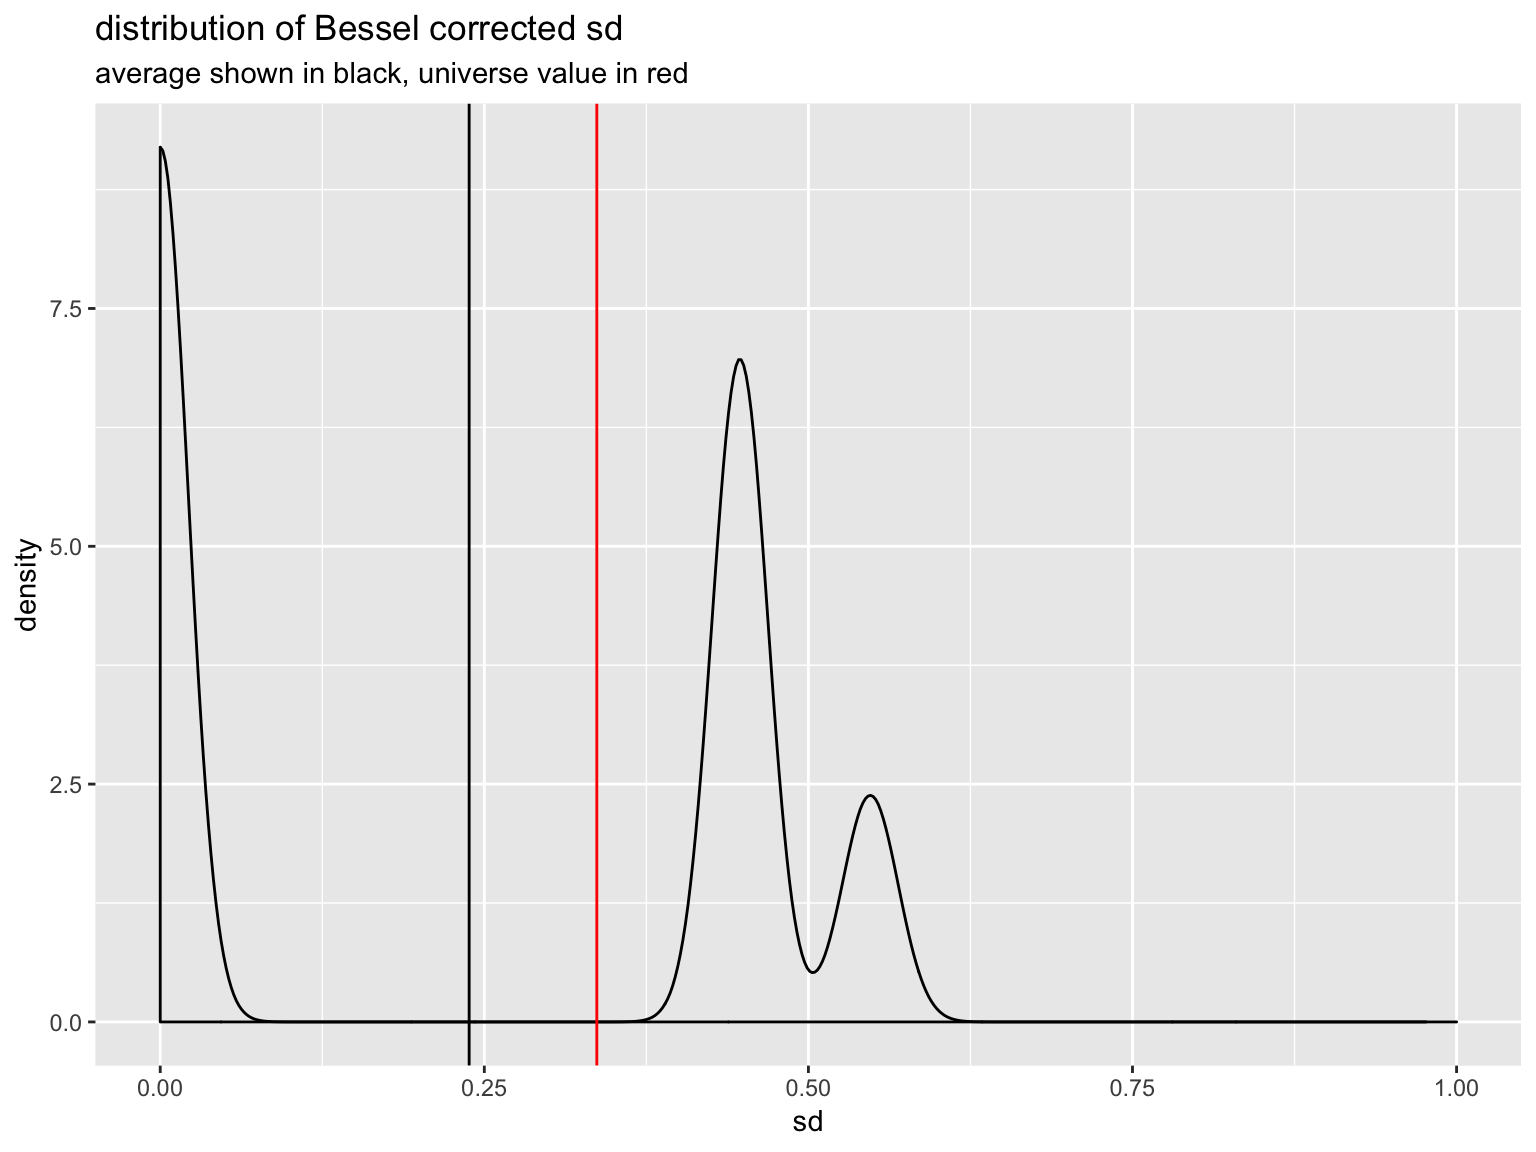
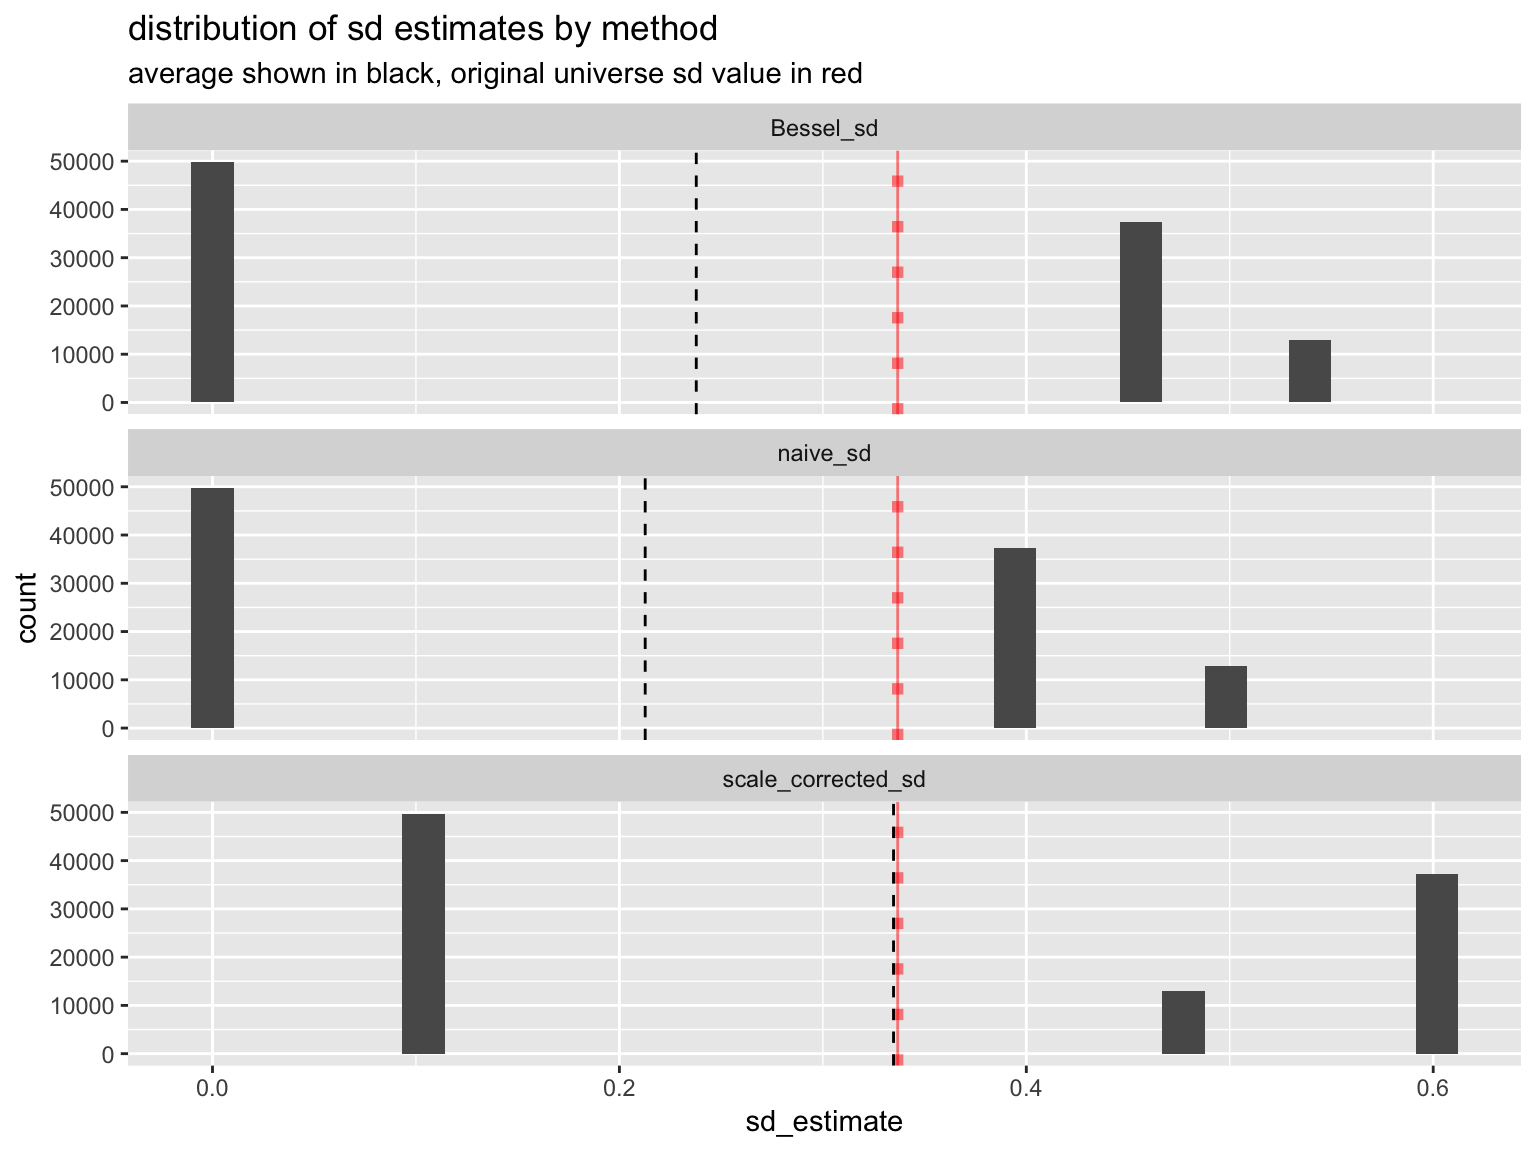
re-run with hitograms and variance of estimator data

diff --git a/extras/BiasEsts.md b/extras/BiasEsts.md
@@ -349,6 +349,8 @@ print("universe")
 ``` r
 tabu <- solve_for_scaling_table(length(universe), naive_sd_fun, intercept = intercept)
 su <- summary1(universe, tabu)
+n <- length(universe)
+
 print("actual sd (non-sample)")
 ```
 
@@ -362,8 +364,7 @@ print(su)
     ## 1 0.8695652 0.1185771 0.3443502 0.1134216 0.3367812          0.3384957
 
 ``` r
-n <- length(universe)
-Bessel_corrected_var <- (n/(n-1))*su$naive_var
+Bessel_corrected_var <- (n/(n-1))*su$naive_var 
 print(Bessel_corrected_var)
 ```
 
@@ -379,159 +380,13 @@ print(Bessel_corrected_sd)
 ``` r
 res <- parallel::parLapply(cl, 1:100000, f)
 res <- do.call(rbind, res)
-
-print("aggregates")
-```
-
-    ## [1] "aggregates"
-
-``` r
 sums <- as.data.frame(lapply(res, mean))
-print(sums)
-```
 
-    ##       mean      var        sd naive_var  naive_sd scale_corrected_sd
-    ## 1 0.869324 0.113642 0.2383006 0.0909136 0.2131425          0.3356049
 
-``` r
-print("sds of aggregates")
-```
 
-    ## [1] "sds of aggregates"
+res$Bessel_sd <- res$sd
+res$Bessel_var <- res$var
 
-``` r
-sdss <- as.data.frame(lapply(res, sd))
-print(sdss)
-```
-
-    ##        mean       var        sd  naive_var  naive_sd scale_corrected_sd
-    ## 1 0.1506201 0.1169069 0.2384437 0.09352555 0.2132706          0.2402441
-
-``` r
-print("stddev est from aggregate mean")
-```
-
-    ## [1] "stddev est from aggregate mean"
-
-``` r
-print(sqrt(su$mean*(1-su$mean)))
-```
-
-    ## [1] 0.3367812
-
-``` r
-p1 <- ggplot(data = res, aes(x = naive_sd)) +
-  geom_density() + 
-  geom_vline(xintercept = sums$naive_sd) +
-  geom_vline(xintercept = su$naive_sd, color = "red") + 
-  xlim(0, 1) +
-  ggtitle(paste0("distribution of naive sd"),
-          subtitle = "average shown in black, universe value in red")
-print(p1)
-```
-
-<img src="BiasEsts_files/figure-markdown_github/run-22.png" width="768" />
-
-``` r
-p2 <- ggplot(data = res, aes(x = scale_corrected_sd)) +
-  geom_density() + 
-  geom_vline(xintercept = sums$scale_corrected_sd) +
-  geom_vline(xintercept = su$naive_sd, color = "red") + 
-  xlim(0, 1) +
-  ggtitle(paste0("distribution of ", ifelse(intercept, "affine", "scale")," adjusted sd"),
-          subtitle = "average shown in black, universe value in red")
-print(p2)
-```
-
-<img src="BiasEsts_files/figure-markdown_github/run-23.png" width="768" />
-
-``` r
-p2b <- ggplot(data = res, aes(x = sd)) +
-  geom_density() + 
-  geom_vline(xintercept = sums$sd) +
-  geom_vline(xintercept = su$naive_sd, color = "red") + 
-  xlim(0, 1) +
-  ggtitle(paste0("distribution of Bessel corrected sd"),
-          subtitle = "average shown in black, universe value in red")
-print(p2b)
-```
-
-<img src="BiasEsts_files/figure-markdown_github/run-24.png" width="768" />
-
-``` r
-res$Bessel_sd = res$sd
-# cT <- build_unpivot_control(nameForNewKeyColumn = "estimation_method",
-#                             nameForNewValueColumn = "sd_estimate",
-#                             columnsToTakeFrom = c("scale_corrected_sd", "naive_sd"))
-# rp <- rowrecs_to_blocks(res,
-#                         controlTable = cT)
-rp <- unpivot_to_blocks(res,
-                        nameForNewKeyColumn = "estimation_method",
-                        nameForNewValueColumn = "sd_estimate",
-                        columnsToTakeFrom = c("scale_corrected_sd", "naive_sd", "Bessel_sd"))
-
-ef <- project(rp, 
-              sd_estimate = mean(sd_estimate), 
-              groupby = "estimation_method")
-
-p3 <- ggplot(data = rp, aes(x = sd_estimate)) +
-  geom_density(adjust = 0.5) + 
-  geom_vline(xintercept = su$naive_sd, color = "red", alpha = 0.5, size=2) + 
-  geom_vline(data = ef, aes(xintercept = sd_estimate)) +
-  xlim(0, 1) +  
-  facet_wrap(~estimation_method, ncol=1) +
-  ggtitle("distribution of sd estimates by method",
-          subtitle = "average shown in black, original universe sd value in red")
-print(p3)
-```
-
-<img src="BiasEsts_files/figure-markdown_github/run-25.png" width="768" />
-
-``` r
-p3 <- ggplot(data = rp, aes(x = sd_estimate)) +
-  geom_density(adjust = 0.5) + 
-  geom_vline(xintercept = su$naive_sd, color = "red", alpha = 0.5, size=2) + 
-  geom_vline(data = ef, aes(xintercept = sd_estimate)) +
-  facet_wrap(~estimation_method, ncol=1) +
-  ggtitle("distribution of sd estimates by method",
-          subtitle = "average shown in black, original universe sd value in red")
-print(p3)
-```
-
-<img src="BiasEsts_files/figure-markdown_github/run-26.png" width="768" />
-
-``` r
-rpb <- rp[rp$estimation_method %in% qc(Bessel_sd, naive_sd), , drop = FALSE]
-efb <- ef[ef$estimation_method %in% qc(Bessel_sd, naive_sd), , drop = FALSE]
-p3b <- ggplot(data = rpb, aes(x = sd_estimate)) +
-  geom_density(adjust = 0.5) + 
-  geom_vline(xintercept = su$naive_sd, color = "red", alpha = 0.5, size=2) + 
-  geom_vline(data = efb, aes(xintercept = sd_estimate)) +
-  facet_wrap(~estimation_method, ncol=1) +
-  ggtitle("distribution of sd estimates by method",
-          subtitle = "average shown in black, original universe sd value in red")
-print(p3b)
-```
-
-<img src="BiasEsts_files/figure-markdown_github/run-27.png" width="768" />
-
-``` r
-p4 <- ggplot(data = rp, aes(x = sd_estimate)) +
-  geom_histogram(bins = 30) +
-  geom_vline(xintercept = su$naive_sd, color = "red", alpha = 0.5, size=3) + 
-  geom_vline(data = ef, aes(xintercept = sd_estimate)) +
-  xlim(-0.05, 0.7) +  # work around histogram bug
-  facet_wrap(~estimation_method, ncol=1) +
-  ggtitle("distribution of sd estimates by method",
-          subtitle = "average shown in black, original universe sd value in red")
-print(p4)
-```
-
-    ## Warning: Removed 3 rows containing missing values (geom_bar).
-
-<img src="BiasEsts_files/figure-markdown_github/run-28.png" width="768" />
-
-``` r
 rpv <- res %.>% 
   extend(., Bessel_var := Bessel_sd^2) %.>% 
   unpivot_to_blocks(.,
@@ -541,17 +396,93 @@ rpv <- res %.>%
 efv <- project(rpv, 
                var_estimate = mean(var_estimate), 
                groupby = "estimation_method")  
+
+rpv %.>%
+  project(., variance_of_estimate = var(var_estimate),
+          groupby = "estimation_method")
+```
+
+    ##    estimation_method variance_of_estimate
+    ## 1:         naive_var          0.008772391
+    ## 2:        Bessel_var          0.013706861
+
+``` r
 p3v <- ggplot(data = rpv, aes(x = var_estimate)) +
-  geom_density(adjust = 0.5) + 
-  geom_vline(xintercept = su$naive_var, color = "red", alpha = 0.5, size=3) + 
-  geom_vline(data = efv, aes(xintercept = var_estimate)) +
+  geom_histogram(bins = 30)  + 
+  geom_vline(xintercept = su$naive_var, color = "red", alpha = 0.5, size=3, linetype =3) + 
+  geom_vline(xintercept = su$naive_var, color = "red", alpha = 0.5) + 
+  geom_vline(data = efv, aes(xintercept = var_estimate), linetype=2) +
   facet_wrap(~estimation_method, ncol=1) +
   ggtitle("distribution of variance estimates by method",
           subtitle = "average shown in black, original universe variance value in red")
 print(p3v)
 ```
 
-<img src="BiasEsts_files/figure-markdown_github/run-29.png" width="768" />
+<img src="BiasEsts_files/figure-markdown_github/run-22.png" width="768" />
+
+``` r
+rp <- unpivot_to_blocks(res,
+                        nameForNewKeyColumn = "estimation_method",
+                        nameForNewValueColumn = "sd_estimate",
+                        columnsToTakeFrom = c(
+                          "scale_corrected_sd", "naive_sd", "Bessel_sd"))
+
+ef <- project(rp, 
+              sd_estimate = mean(sd_estimate), 
+              groupby = "estimation_method")
+
+rp %.>%
+  project(., variance_of_estimate = var(sd_estimate),
+          groupby = "estimation_method")
+```
+
+    ##     estimation_method variance_of_estimate
+    ## 1: scale_corrected_sd           0.05763954
+    ## 2:           naive_sd           0.04554781
+    ## 3:          Bessel_sd           0.05693477
+
+``` r
+rpb <- rp[rp$estimation_method %in% qc(Bessel_sd, naive_sd), , drop = FALSE]
+efb <- ef[ef$estimation_method %in% qc(Bessel_sd, naive_sd), , drop = FALSE]
+p3b <- ggplot(data = rpb, aes(x = sd_estimate)) +
+  geom_histogram(bins = 30)  + 
+  geom_vline(xintercept = su$naive_sd, color = "red", alpha = 0.5, size=2, linetype =3) + 
+  geom_vline(xintercept = su$naive_sd, color = "red", alpha = 0.5) + 
+  geom_vline(data = efb, aes(xintercept = sd_estimate), linetype=2) +
+  facet_wrap(~estimation_method, ncol=1) +
+  ggtitle("distribution of sd estimates by method",
+          subtitle = "average shown in black, original universe sd value in red")
+print(p3b)
+```
+
+<img src="BiasEsts_files/figure-markdown_github/run-23.png" width="768" />
+
+``` r
+rpa <- rp[rp$estimation_method %in% qc(Bessel_sd, naive_sd, scale_corrected_sd), , drop = FALSE]
+efa <- ef[ef$estimation_method %in% qc(Bessel_sd, naive_sd, scale_corrected_sd), , drop = FALSE]
+p3 <- ggplot(data = rpa, aes(x = sd_estimate)) +
+  geom_histogram(bins = 30)  + 
+  geom_vline(xintercept = su$naive_sd, color = "red", alpha = 0.5, size=2, linetype =3) + 
+  geom_vline(xintercept = su$naive_sd, color = "red", alpha = 0.5) + 
+  geom_vline(data = efa, aes(xintercept = sd_estimate), linetype=2) +
+  facet_wrap(~estimation_method, ncol=1) +
+  ggtitle("distribution of sd estimates by method",
+          subtitle = "average shown in black, original universe sd value in red")
+print(p3)
+```
+
+<img src="BiasEsts_files/figure-markdown_github/run-24.png" width="768" />
+
+``` r
+rp %.>%
+  project(., variance_of_estimate = var(sd_estimate),
+          groupby = "estimation_method")
+```
+
+    ##     estimation_method variance_of_estimate
+    ## 1: scale_corrected_sd           0.05763954
+    ## 2:           naive_sd           0.04554781
+    ## 3:          Bessel_sd           0.05693477
 
 ``` r
 parallel::stopCluster(cl)
